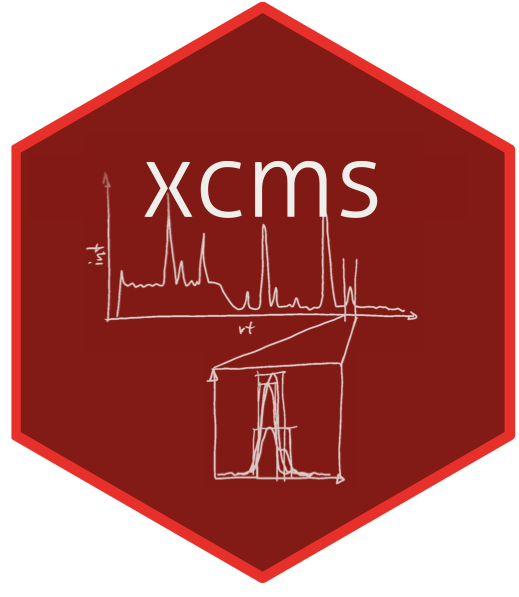
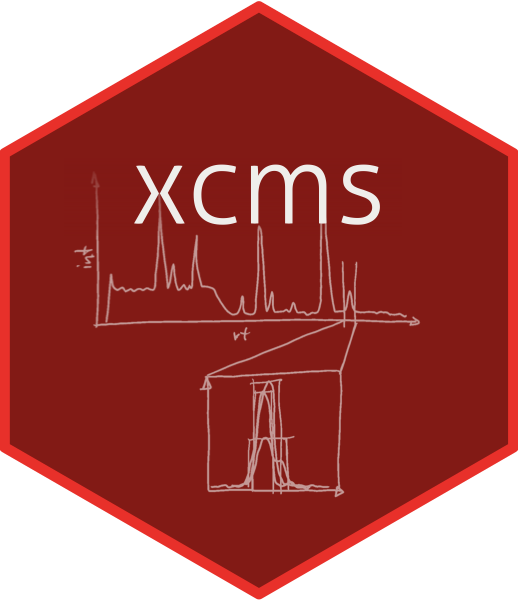
Create xcms sticker with the hexSticker package.

diff --git a/xcms/README.md b/xcms/README.md
@@ -5,4 +5,7 @@
 
 <img src="./xcms.png" height="200">
 
+The sticker was generated using
+the [`xcms_hexSticker.R`](./xcms_hexSticker.R) `R` script that uses
+the [`hexSticker`](https://github.com/GuangchuangYu/hexSticker) package.
 
